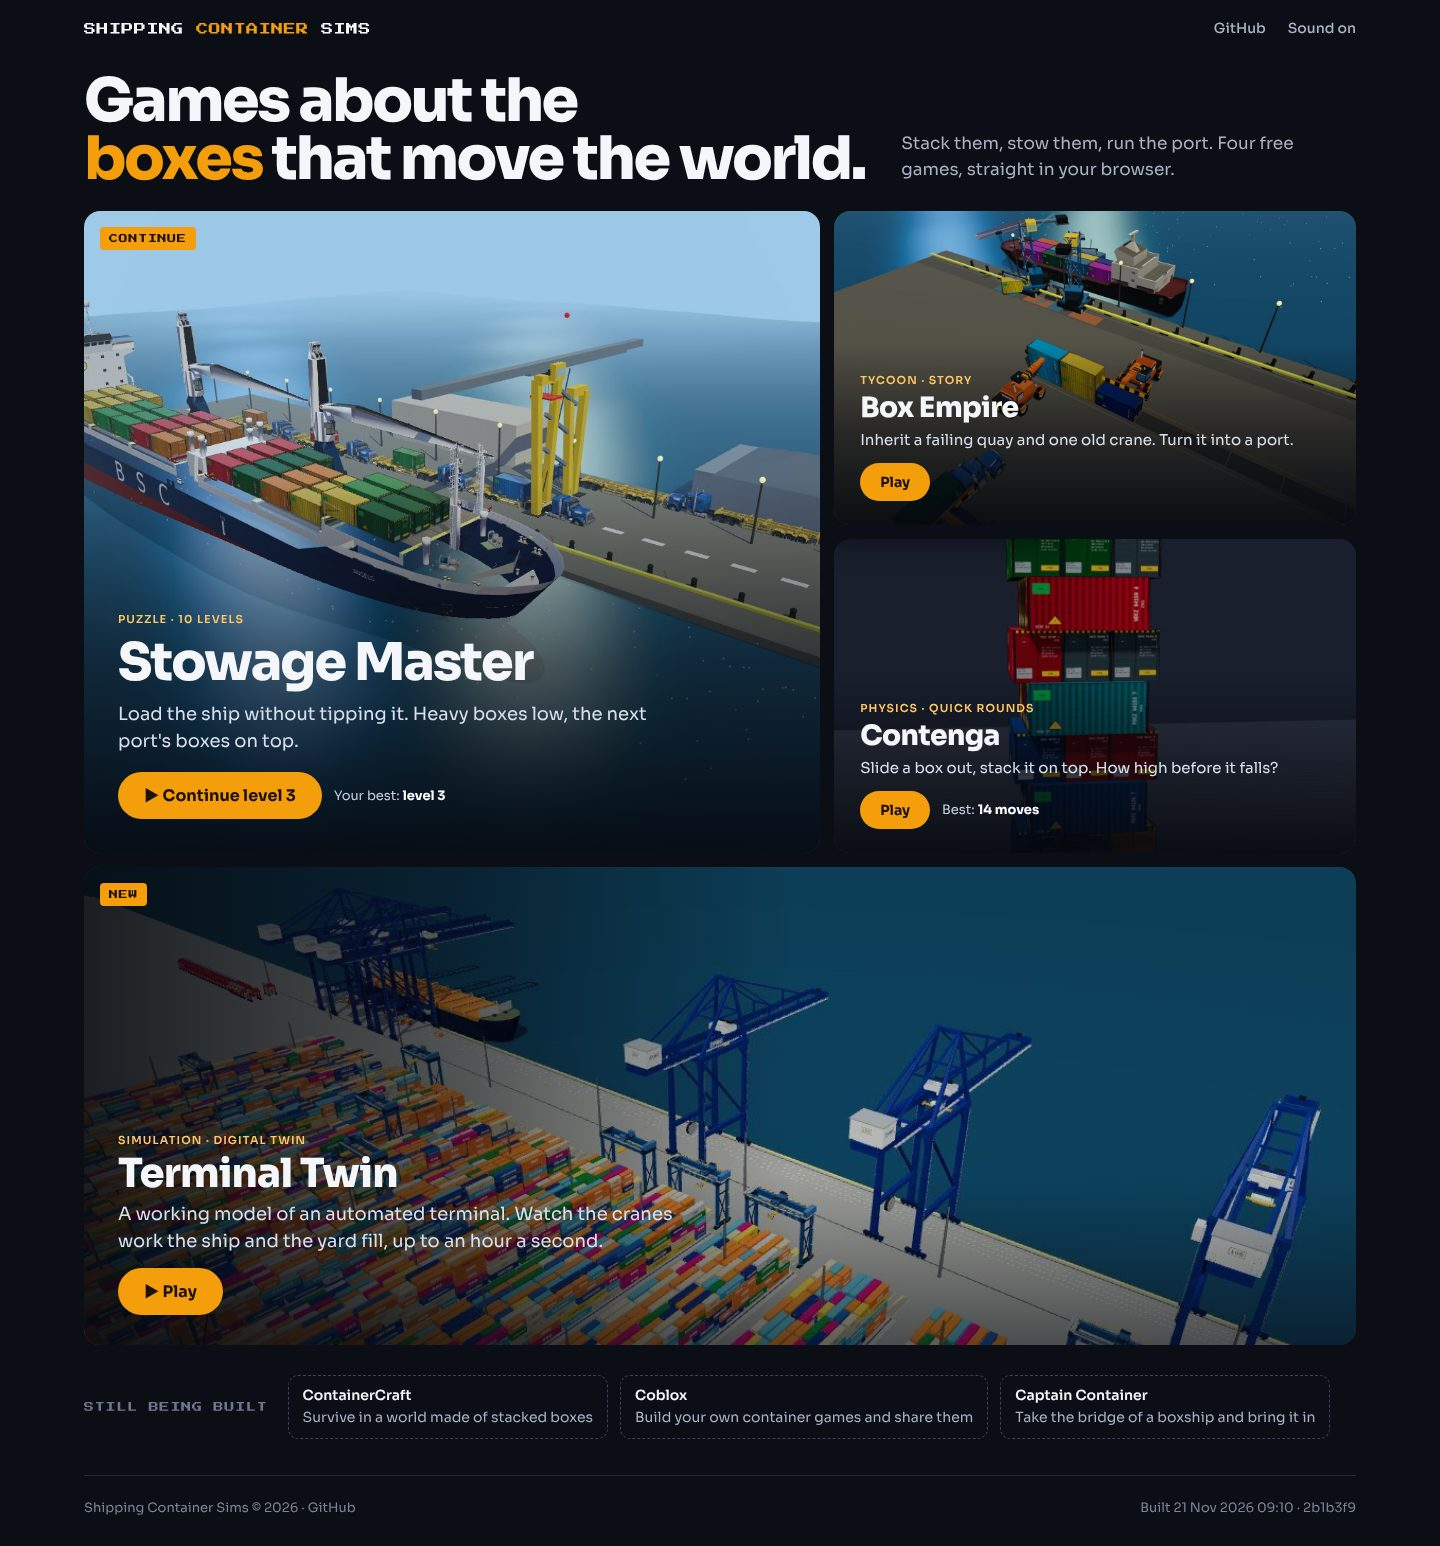
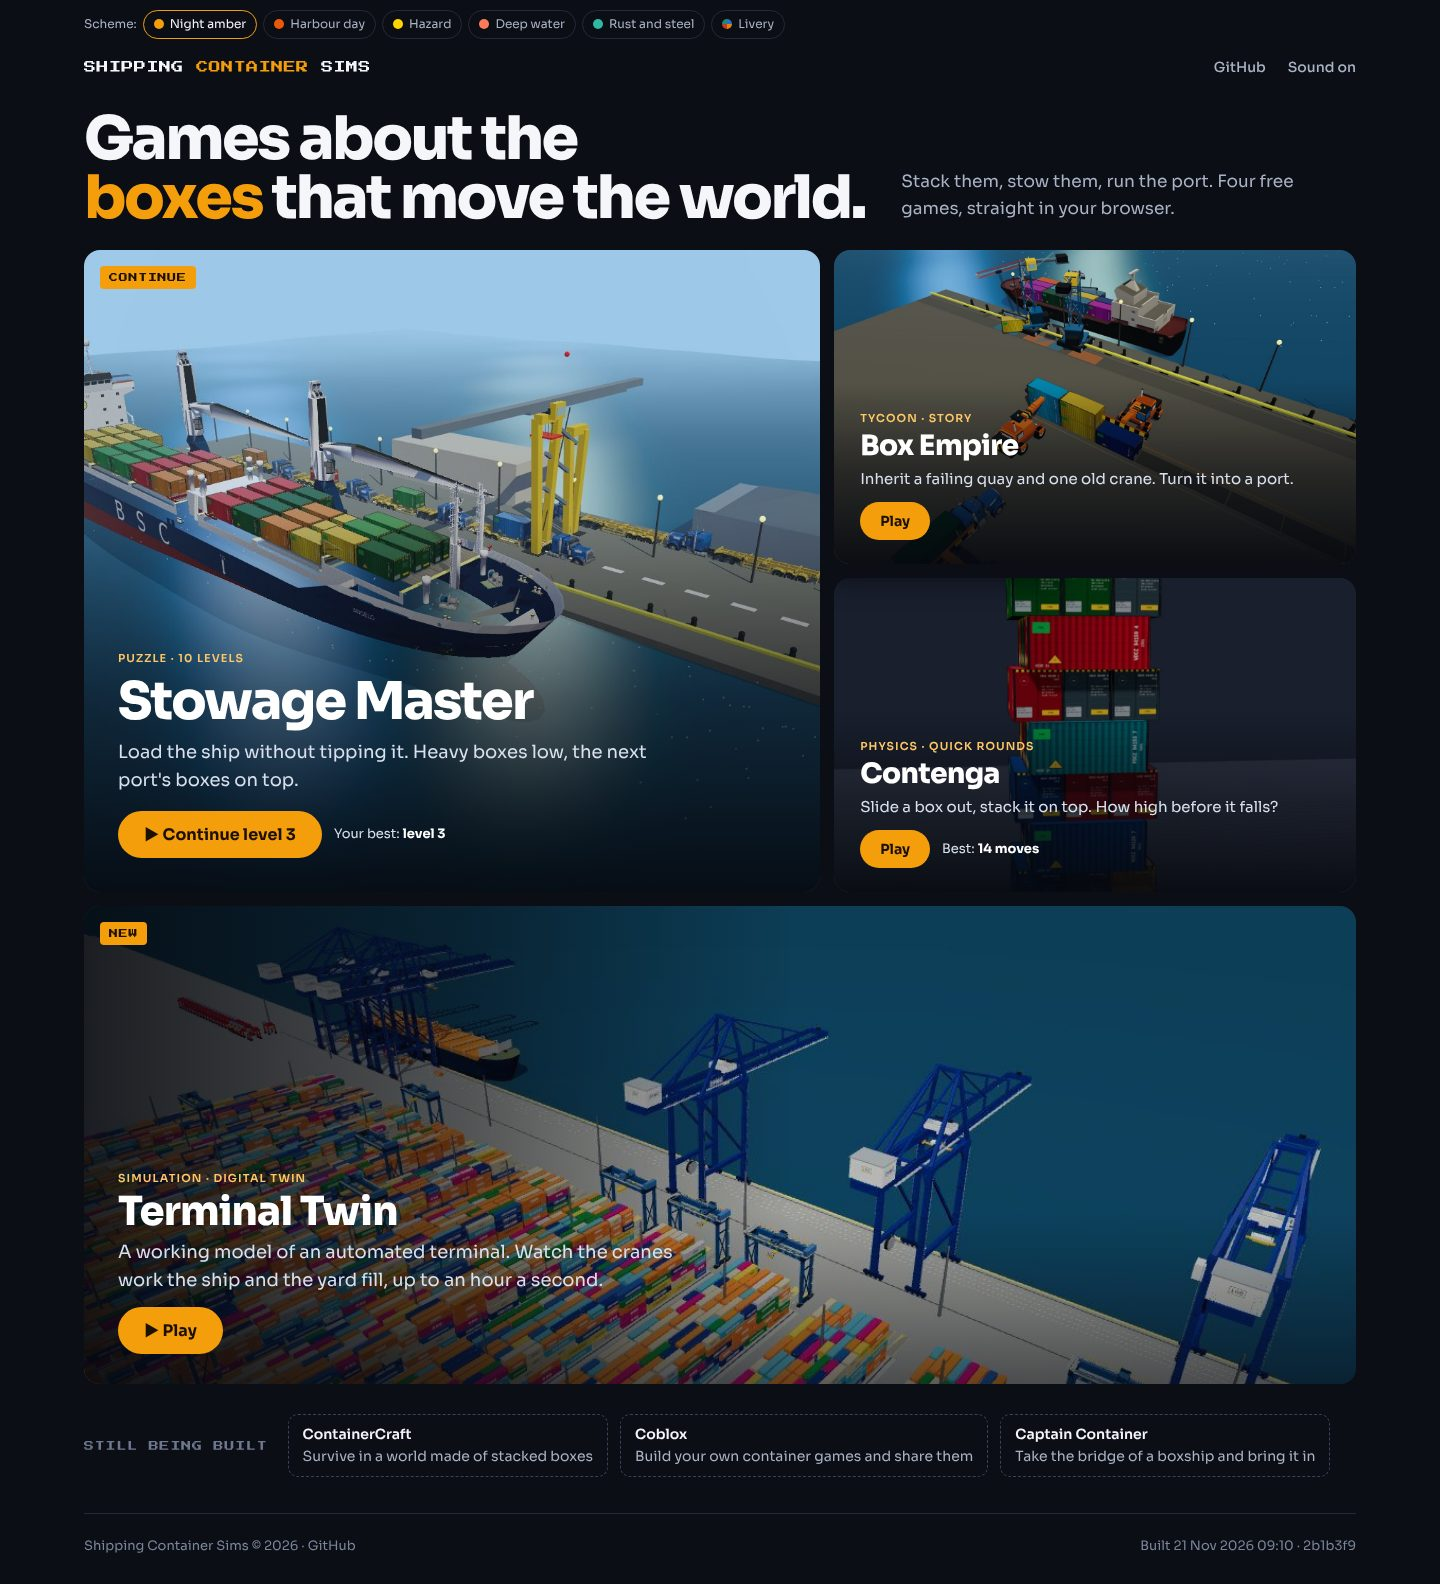
Add six colour schemes to the poster wall home page mockup
Claude-Session: https://claude.ai/code/session_0155BNjvehiTxQeqTRnLWRX8

diff --git a/docs/prototypes/home-redesign-2/f-bento.html b/docs/prototypes/home-redesign-2/f-bento.html
@@ -4,14 +4,44 @@
 <meta charset="utf-8">
 <meta name="viewport" content="width=device-width,initial-scale=1">
 <title>Mockup F: Poster wall</title>
-<link rel="stylesheet" href="https://fonts.googleapis.com/css2?family=Press+Start+2P&family=Sora:wght@400;500;600;700;800&display=swap">
+<link rel="stylesheet" href="https://fonts.googleapis.com/css2?family=Press+Start+2P&family=Saira+Stencil+One&family=Sora:wght@400;500;600;700;800&display=swap">
 <style>
 /* Variation F. A poster wall: the screens are the page. Uneven tiles (one big, two tall, one wide), the words sit on
    the picture, and the planned games are a quiet row of chips. Almost no chrome, so the sims' own colours carry it. */
 :root {
+  /* Page colours, then the tile scrim (an RGB triplet so it can fade), then the small accents on the tiles. */
   --bg: #0b0e15; --line: #232a39; --ink: #f4f6fa; --muted: #aab3c5; --amber: #f59e0b; --on-amber: #1c1100;
+  --scrim: 5, 8, 14; --kind: #ffc766; --tile-p: #d9e0ee; --chip-line: #38425a; --dim: #6d788f; --foot: #7b869b;
+  --head-font: 'Sora', system-ui, sans-serif; --head-weight: 800; --radius: 16px; --btn-radius: 999px;
   --retro: 'Press Start 2P', monospace; --body: 'Sora', system-ui, sans-serif;
 }
+/* Scheme 2, Harbour day: a light page (paper and navy) with signal orange. The tiles keep a dark navy scrim. */
+[data-scheme=day] { --bg: #eef1f5; --line: #d3d9e3; --ink: #0d1b2e; --muted: #4a5870; --amber: #ea580c; --on-amber: #fff;
+  --scrim: 10, 24, 46; --kind: #ffb27a; --chip-line: #a9b4c6; --dim: #7b879c; --foot: #66738a; }
+/* Scheme 3, Hazard: black and safety yellow, square corners, stencil headings. Loud and very on-theme. */
+[data-scheme=hazard] { --bg: #0c0c0c; --line: #2b2b2b; --ink: #fafafa; --muted: #b3b3b3; --amber: #ffd400; --on-amber: #111;
+  --scrim: 0, 0, 0; --kind: #ffd400; --tile-p: #e6e6e6; --chip-line: #555; --dim: #8a8a8a; --foot: #8a8a8a;
+  --head-font: 'Saira Stencil One', Impact, sans-serif; --head-weight: 400; --radius: 4px; --btn-radius: 3px; }
+/* Scheme 4, Deep water: dark teal and sea green with a coral call to action. Calm, matches the sims' blue sea. */
+[data-scheme=sea] { --bg: #06171c; --line: #143039; --ink: #eafaf8; --muted: #93b6b5; --amber: #ff7a59; --on-amber: #2a0b00;
+  --scrim: 3, 20, 26; --kind: #7fe0cc; --tile-p: #d3ecea; --chip-line: #24505a; --dim: #5d8a8c; --foot: #5d8a8c; }
+/* Scheme 5, Rust and steel: warm corten brown with cream text and a teal accent, like a weathered box. */
+[data-scheme=rust] { --bg: #1a1210; --line: #3a2a24; --ink: #f6ece2; --muted: #c4ad9c; --amber: #2fb8a6; --on-amber: #04201c;
+  --scrim: 26, 14, 10; --kind: #f0a875; --tile-p: #eadbd0; --chip-line: #5a4034; --dim: #8f7565; --foot: #8f7565; }
+/* Scheme 6, Livery: the four container colours from mockup G, one per game, on graphite. Each tile has its own accent. */
+[data-scheme=livery] { --bg: #101215; --line: #262a31; --ink: #f2f4f7; --muted: #a5adba; --amber: #f6c21c; --on-amber: #1b1400;
+  --scrim: 10, 12, 16; --chip-line: #3a404b; --dim: #6f7785; --foot: #6f7785; --radius: 8px; --btn-radius: 6px; }
+[data-scheme=livery] .t1 { --amber: #4a90e2; --on-amber: #fff; --kind: #9cc4ff; --stripe: #2a6fc4; }
+[data-scheme=livery] .t2 { --amber: #f59e0b; --kind: #ffc766; --stripe: #e0830c; }
+[data-scheme=livery] .t3 { --amber: #ef5a4c; --on-amber: #fff; --kind: #ff9d93; --stripe: #c23a2e; }
+[data-scheme=livery] .t4 { --amber: #2fbf8f; --on-amber: #022016; --kind: #8de6c4; --stripe: #1f8a6e; }
+[data-scheme=livery] .tile::after { content: ""; position: absolute; left: 0; right: 0; top: 0; height: 8px; z-index: 1; background: repeating-linear-gradient(90deg, var(--stripe) 0 12px, color-mix(in srgb, var(--stripe) 70%, #000) 12px 16px); }
+[data-scheme=livery] .badge { background: #f6c21c; color: #1b1400; top: 22px; }
+
+.schemes { display: flex; flex-wrap: wrap; gap: 6px; align-items: center; padding: 10px 0 0; font-size: 12px; color: var(--muted); }
+.schemes a { border: 1px solid var(--line); border-radius: 999px; padding: 4px 10px; display: inline-flex; gap: 6px; align-items: center; }
+.schemes a i { width: 10px; height: 10px; border-radius: 50%; display: inline-block; }
+.schemes a[aria-current] { border-color: var(--amber); color: var(--ink); }
 * { box-sizing: border-box; margin: 0; padding: 0; }
 body { background: var(--bg); color: var(--ink); font: 16px/1.55 var(--body); -webkit-font-smoothing: antialiased; }
 a { color: inherit; text-decoration: none; }
@@ -22,15 +52,15 @@ a { color: inherit; text-decoration: none; }
 .top nav { display: flex; gap: 22px; color: var(--muted); font-size: 14px; font-weight: 500; }
 
 .head { display: flex; justify-content: space-between; align-items: end; gap: 28px; padding-block: 14px 22px; }
-.head h1 { font: 800 60px/.98 var(--body); letter-spacing: -.04em; }
+.head h1 { font: var(--head-weight) 60px/.98 var(--head-font); letter-spacing: -.04em; }
 .head h1 span { color: var(--amber); }
 .head p { color: var(--muted); max-width: 36ch; font-size: 17px; padding-bottom: 6px; }
 
 .wall { display: grid; grid-template-columns: repeat(12, 1fr); grid-auto-rows: 150px; gap: 14px; }
-.tile { position: relative; border-radius: 16px; overflow: hidden; display: flex; align-items: flex-end; background: #111; isolation: isolate; }
+.tile { position: relative; border-radius: var(--radius); overflow: hidden; display: flex; align-items: flex-end; background: #111; isolation: isolate; }
 .tile img { position: absolute; inset: 0; width: 100%; height: 100%; object-fit: cover; transition: transform .6s ease; z-index: -2; }
-.tile::before { content: ""; position: absolute; inset: 0; z-index: -1; background: linear-gradient(0deg, rgba(5,8,14,.92) 0%, rgba(5,8,14,.55) 30%, rgba(5,8,14,0) 58%); }
-.t4::before { background: linear-gradient(90deg, rgba(5,8,14,.86) 0%, rgba(5,8,14,.5) 30%, rgba(5,8,14,0) 56%), linear-gradient(0deg, rgba(5,8,14,.55) 0%, rgba(5,8,14,0) 36%); }
+.tile::before { content: ""; position: absolute; inset: 0; z-index: -1; background: linear-gradient(0deg, rgba(var(--scrim),.92) 0%, rgba(var(--scrim),.55) 30%, rgba(var(--scrim),0) 58%); }
+.t4::before { background: linear-gradient(90deg, rgba(var(--scrim),.86) 0%, rgba(var(--scrim),.5) 30%, rgba(var(--scrim),0) 56%), linear-gradient(0deg, rgba(var(--scrim),.55) 0%, rgba(var(--scrim),0) 36%); }
 .tile:hover img { transform: scale(1.05); }
 .t1 { grid-column: span 7; grid-row: span 4; }
 .t2 { grid-column: span 5; grid-row: span 2; }
@@ -39,24 +69,24 @@ a { color: inherit; text-decoration: none; }
 .inner { padding: 24px 26px; width: 100%; display: grid; gap: 6px; }
 .t1 .inner { padding: 34px; gap: 10px; }
 .t4 .inner { padding: 30px 34px; max-width: 700px; }
-.kind { font: 600 11px var(--body); letter-spacing: .1em; text-transform: uppercase; color: #ffc766; }
-.tile h2 { font: 800 28px/1.05 var(--body); letter-spacing: -.02em; }
+.kind { font: 600 11px var(--body); letter-spacing: .1em; text-transform: uppercase; color: var(--kind); }
+.tile h2 { font: var(--head-weight) 28px/1.05 var(--head-font); color: #fff; letter-spacing: -.02em; }
 .t1 h2 { font-size: 52px; letter-spacing: -.035em; }
 .t4 h2 { font-size: 40px; }
-.tile p { color: #d9e0ee; font-size: 15px; max-width: 42ch; }
+.tile p { color: var(--tile-p); font-size: 15px; max-width: 42ch; }
 .t1 p, .t4 p { font-size: 18px; }
 .go { display: flex; gap: 12px; align-items: center; margin-top: 6px; flex-wrap: wrap; }
-.btn { display: inline-flex; align-items: center; gap: 8px; font: 700 14px var(--body); padding: 10px 20px; border-radius: 999px; background: var(--amber); color: var(--on-amber); }
+.btn { display: inline-flex; align-items: center; gap: 8px; font: 700 14px var(--body); padding: 10px 20px; border-radius: var(--btn-radius); background: var(--amber); color: var(--on-amber); }
 .t1 .btn, .t4 .btn { padding: 13px 26px; font-size: 16px; }
-.meta { font-size: 13px; color: #c7d0e1; }
+.meta { font-size: 13px; color: var(--tile-p); }
 .meta b { color: #fff; }
 .badge { position: absolute; z-index: 1; top: 16px; left: 16px; font: 9px var(--retro); letter-spacing: .08em; background: var(--amber); color: var(--on-amber); padding: 7px 9px; border-radius: 4px; }
 
 .later { display: flex; flex-wrap: wrap; gap: 10px 12px; align-items: center; padding-block: 30px 6px; color: var(--muted); font-size: 14px; }
-.later .lab { font: 10px var(--retro); letter-spacing: .08em; color: #6d788f; margin-right: 8px; }
-.chip { border: 1px dashed #38425a; border-radius: 10px; padding: 9px 14px; }
+.later .lab { font: 10px var(--retro); letter-spacing: .08em; color: var(--dim); margin-right: 8px; }
+.chip { border: 1px dashed var(--chip-line); border-radius: 10px; padding: 9px 14px; }
 .chip b { color: var(--ink); font-weight: 600; display: block; }
-footer { margin-top: 30px; border-top: 1px solid var(--line); padding-block: 22px 28px; display: flex; flex-wrap: wrap; gap: 8px 24px; justify-content: space-between; color: #7b869b; font-size: 13px; }
+footer { margin-top: 30px; border-top: 1px solid var(--line); padding-block: 22px 28px; display: flex; flex-wrap: wrap; gap: 8px 24px; justify-content: space-between; color: var(--foot); font-size: 13px; }
 
 @media (max-width: 960px) {
   .wall { grid-auto-rows: 130px; }
@@ -78,11 +108,20 @@ footer { margin-top: 30px; border-top: 1px solid var(--line); padding-block: 22p
   .t4 h2 { font-size: 32px; }
   .t1 .inner, .t4 .inner { padding: 20px; }
   .badge { left: auto; right: 14px; }
+  .tile::before, .t4::before { background: linear-gradient(0deg, rgba(var(--scrim),.95) 0%, rgba(var(--scrim),.8) 50%, rgba(var(--scrim),0) 88%); }
 }
 </style>
 </head>
 <body>
 <div class="wrap">
+  <nav class="schemes" aria-label="Colour scheme (mockup only)">Scheme:
+    <a href="?scheme=night"><i style="background:#f59e0b"></i>Night amber</a>
+    <a href="?scheme=day"><i style="background:#ea580c"></i>Harbour day</a>
+    <a href="?scheme=hazard"><i style="background:#ffd400"></i>Hazard</a>
+    <a href="?scheme=sea"><i style="background:#ff7a59"></i>Deep water</a>
+    <a href="?scheme=rust"><i style="background:#2fb8a6"></i>Rust and steel</a>
+    <a href="?scheme=livery"><i style="background:conic-gradient(#2a6fc4 0 25%,#e0830c 0 50%,#c23a2e 0 75%,#1f8a6e 0)"></i>Livery</a>
+  </nav>
   <header class="top"><div class="logo">SHIPPING <b>CONTAINER</b> SIMS</div><nav><a href="#">GitHub</a><a href="#">Sound on</a></nav></header>
 
   <section class="head">
@@ -106,5 +145,11 @@ footer { margin-top: 30px; border-top: 1px solid var(--line); padding-block: 22p
   </section>
   <footer><span>Shipping Container Sims &copy; 2026 &middot; GitHub</span><span>Built 21 Nov 2026 09:10 &middot; 2b1b3f9</span></footer>
 </div>
+<script>
+  // Mockup only: pick the colour scheme from ?scheme= so each one has a shareable link.
+  const s = new URLSearchParams(location.search).get('scheme') || 'night'
+  document.documentElement.dataset.scheme = s
+  document.querySelector(`.schemes a[href="?scheme=${s}"]`)?.setAttribute('aria-current', 'true')
+</script>
 </body>
 </html>

diff --git a/docs/prototypes/home-redesign-2/README.md b/docs/prototypes/home-redesign-2/README.md
@@ -15,6 +15,21 @@ Four more static mockups of the main menu (`src/pages/HomePage.vue`), a follow-u
 - **Box Empire** (`boxempire-wide.jpg`, `boxempire-quay.jpg`, `boxempire-low.jpg`): sandbox mode with two mobile harbour cranes working a laden feeder, three reach stackers and a truck, HUD hidden.
 - **Contenga** and **Terminal Twin**: the crops from PR #278.
 
+### Colour schemes for F
+
+`f-bento.html` takes `?scheme=` (or use the switcher strip at the top of the page). Every colour is a CSS variable, so a scheme is one block of overrides:
+
+| `?scheme=` | Look |
+|---|---|
+| `night` (default) | The original: near-black navy with amber |
+| `day` | Light page (paper and navy) with signal orange; tiles keep a dark scrim so the words stay readable |
+| `hazard` | Black and safety yellow, square corners, stencil headings |
+| `sea` | Dark teal with a coral call to action, matching the sims' blue water |
+| `rust` | Warm corten brown, cream text, teal buttons |
+| `livery` | Graphite, and each game wears its container colour from mockup G (blue, orange, red, green) as a corrugated top edge and button |
+
+Renders: `shots/f-scheme-<name>-{desktop,phone}.jpg`, and all six side by side in `shots/f-schemes-sheet.jpg`.
+
 Progress lines ("level 3", "14 moves") and the build stamp are example values.
 
 ## How the screenshots were taken
